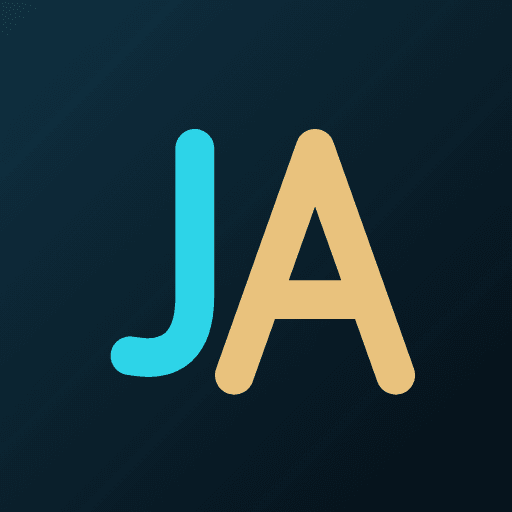
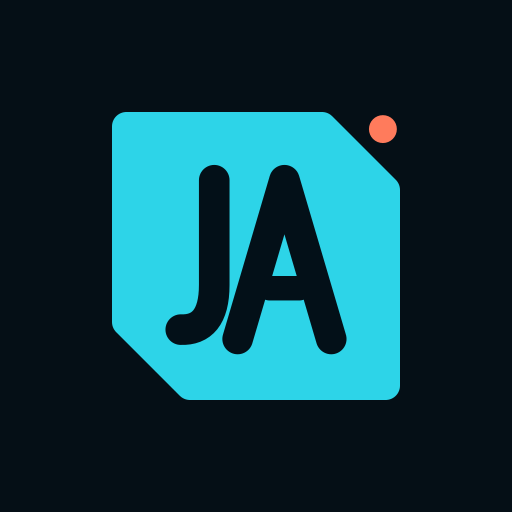
feat: new JA mark (cyan plate with two cut corners, heavy letters, coral live dot)
- Navbar, footer and intro use the new artwork. The intro draws the J, then the A and its bar, then the dot pops in.
- app/icon.svg, favicon.ico (16/32/48), apple-icon, the PWA icons and logo.svg are renders of the same artwork. The maskable icon keeps the plate inside the 80% safe circle.
- og-image.png has the new mark in the top-left lockup (kept as a 256-colour PNG, 182 KB).
- scripts/brand holds the artwork numbers and rebuilds the icon set: node scripts/brand/build-icons.mjs.

diff --git a/components/ui.tsx b/components/ui.tsx
@@ -2,16 +2,21 @@ import type { CSSProperties, ReactNode } from "react";
 import type { Img } from "@/config/media";
 import { STATUS_LABEL, type Status } from "@/config/work";
 
-/** Monogram mark. Solid fills so it can appear more than once on a page. */
+/**
+ * Monogram mark: a heavy JA on a cyan plate with two cut corners, and a coral "live" dot in the top-right cut.
+ * Solid fills and no ids, so it can appear more than once on a page. The same numbers live in scripts/brand/mark.mjs, which
+ * also builds the favicon and app icons (node scripts/brand/build-icons.mjs). Change both together.
+ */
 export function Mark({ size = 30 }: { size?: number }) {
   return (
     <svg width={size} height={size} viewBox="0 0 64 64" role="img" aria-label="Jeremia Axelano monogram">
-      <rect x="1" y="1" width="62" height="62" rx="16" fill="#0a1c28" />
-      <rect x="1.5" y="1.5" width="61" height="61" rx="15.5" fill="none" stroke="#fff" strokeOpacity=".12" />
-      <g fill="none" strokeWidth="5.2" strokeLinecap="round" strokeLinejoin="round">
-        <path d="M23.5 17V37.5Q23.5 47.5 14.5 45.8" stroke="#2dd4e8" />
-        <path d="M29 48.5L40.2 17L51.4 48.5M32.9 38H47.5" stroke="#e9c27d" />
+      <polygon points="3.2,3.2 46.67,3.2 60.8,17.33 60.8,60.8 17.33,60.8 3.2,46.67" fill="#2dd4e8" stroke="#2dd4e8" strokeWidth="6.4" strokeLinejoin="round" />
+      <g transform="translate(32 32.8) scale(0.8) translate(-27.1 -32.55)" fill="none" stroke="#031018" strokeWidth="8.5" strokeLinecap="round" strokeLinejoin="round">
+        <path d="M15.5 10.5V39.6C15.5 48.6 12 52.2 6.2 52" />
+        <path d="M22 54.6L35 10.5L48 54.6" />
+        <path d="M30.83 40.5H39.17" strokeWidth="6.8" />
       </g>
+      <circle cx="60.2" cy="3.8" r="3.1" fill="#ff7b5c" />
     </svg>
   );
 }

diff --git a/styles/fx.css b/styles/fx.css
@@ -112,9 +112,12 @@ html.ld-on .ld { display: grid; }
 @keyframes ldf { to { opacity: 0; } }
 .ld-in { position: relative; z-index: 2; display: grid; justify-items: center; gap: 14px; }
 .ld-in svg { width: 150px; height: 110px; overflow: visible; }
-.ld-in path { fill: none; stroke-width: 5; stroke-linecap: round; stroke-linejoin: round; stroke-dasharray: 1; stroke-dashoffset: 1; animation: dash 1.6s cubic-bezier(0.6, 0, 0.2, 1) forwards; }
+.ld-in path { fill: none; stroke-width: 12.3; stroke-linecap: round; stroke-linejoin: round; stroke-dasharray: 1; stroke-dashoffset: 1; animation: dash 1s cubic-bezier(0.6, 0, 0.2, 1) forwards; }
 .ld-in path:nth-child(1) { stroke: var(--cy); }
-.ld-in path:nth-child(2) { stroke: var(--gold); animation-delay: 0.35s; }
+.ld-in path:nth-child(2) { stroke: var(--gold); animation-delay: 0.2s; }
+.ld-in path.bar { stroke: var(--gold); stroke-width: 9.9; animation-duration: 0.3s; animation-delay: 0.85s; }
+.ld-in circle { fill: var(--coral); transform-box: fill-box; transform-origin: center; transform: scale(0); animation: mkpop 0.45s 0.95s cubic-bezier(0.3, 1.6, 0.5, 1) forwards; }
 @keyframes dash { to { stroke-dashoffset: 0; } }
+@keyframes mkpop { to { transform: scale(1); } }
 .ld-n { font: 800 64px/1 var(--disp); letter-spacing: -0.06em; font-variant-numeric: tabular-nums; }
 html.ld-on .rv.in { animation-play-state: paused; }

diff --git a/components/intro.tsx b/components/intro.tsx
@@ -54,8 +54,10 @@ export default function Intro() {
       <div className="ld-c" />
       <div className="ld-in">
         <svg viewBox="0 0 150 110">
-          <path pathLength={1} d="M46 12 V66 Q46 92 20 88" />
-          <path pathLength={1} d="M72 92 L98 12 L124 92 M81 64 H115" />
+          <path pathLength={1} d="M58.18 23.03V65.22C58.18 78.27 53.1 83.49 44.69 83.2" />
+          <path pathLength={1} d="M67.61 86.97L86.45 23.03L105.3 86.97" />
+          <path pathLength={1} className="bar" d="M80.41 66.53H92.5" />
+          <circle cx="113.45" cy="17.03" r="5.62" />
         </svg>
         <div className="ld-n" ref={num}>
           000

diff --git a/README.md b/README.md
@@ -38,7 +38,7 @@ config/           all copy, numbers and image descriptors (site, work, builds, c
 lib/              i18n (EN/ID), events, geo-dots (land dots for the globe)
 styles/           base, fx, top, mid, deep, end
 public/work/      screenshots and photos (WebP), public/logos/sprite.svg for tool and brand marks
-scripts/          capture-sites.mjs and the QA scripts
+scripts/          capture-sites.mjs, the QA scripts, and brand/ (draws the JA mark and builds the favicon and app icons)
 docs/             component catalog and code reference
 ```
 
@@ -52,6 +52,8 @@ Screenshots are captured at 1440x900 @2x and stored as 800x500 WebP (16:10), so 
 npm i --no-save playwright && npx playwright install chromium
 node scripts/capture-sites.mjs scripts/sites.example.json public/work/t
 ```
+
+The JA mark is drawn from a handful of numbers in `scripts/brand/mark.mjs` (a cyan plate with two cut corners, heavy letters, a coral dot). `components/ui.tsx` carries the same numbers for the React `<Mark />`. After changing the artwork, run `node scripts/brand/build-icons.mjs` to rewrite `app/icon.svg`, `app/favicon.ico`, `app/apple-icon.png` and the PNG icons in `public/`.
 
 ## QA
 
